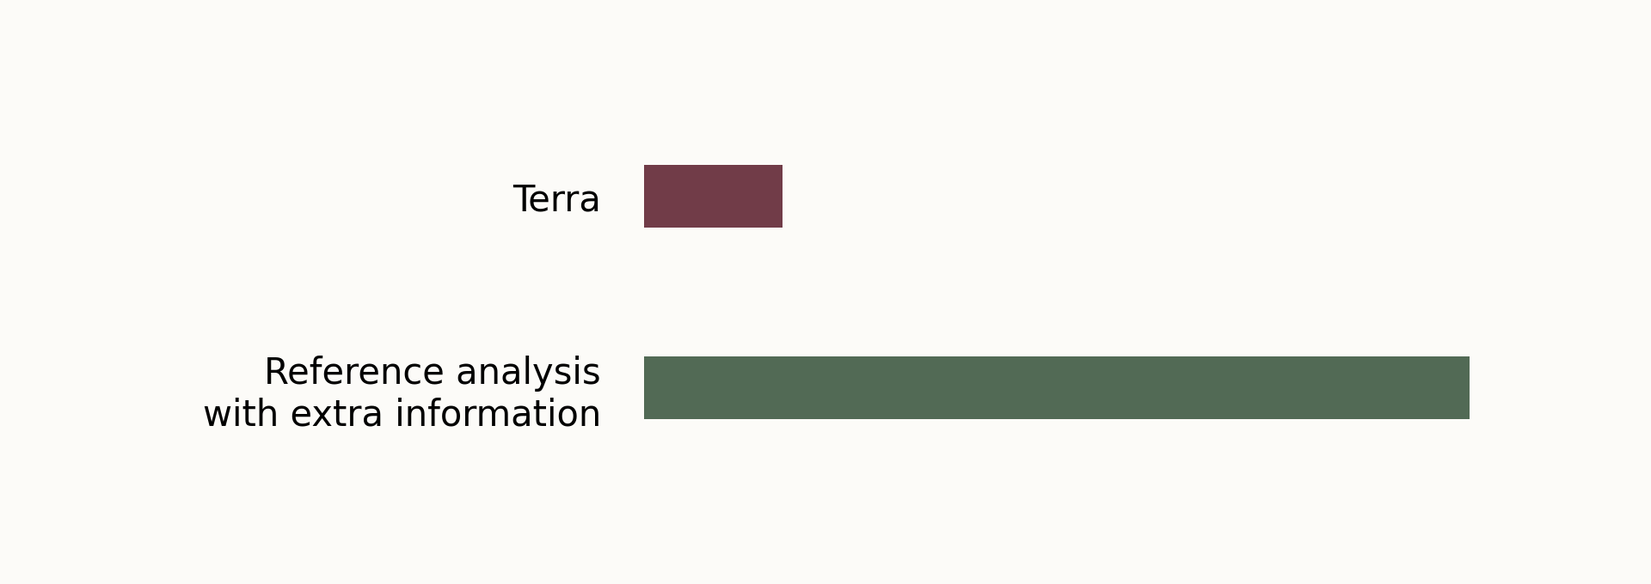
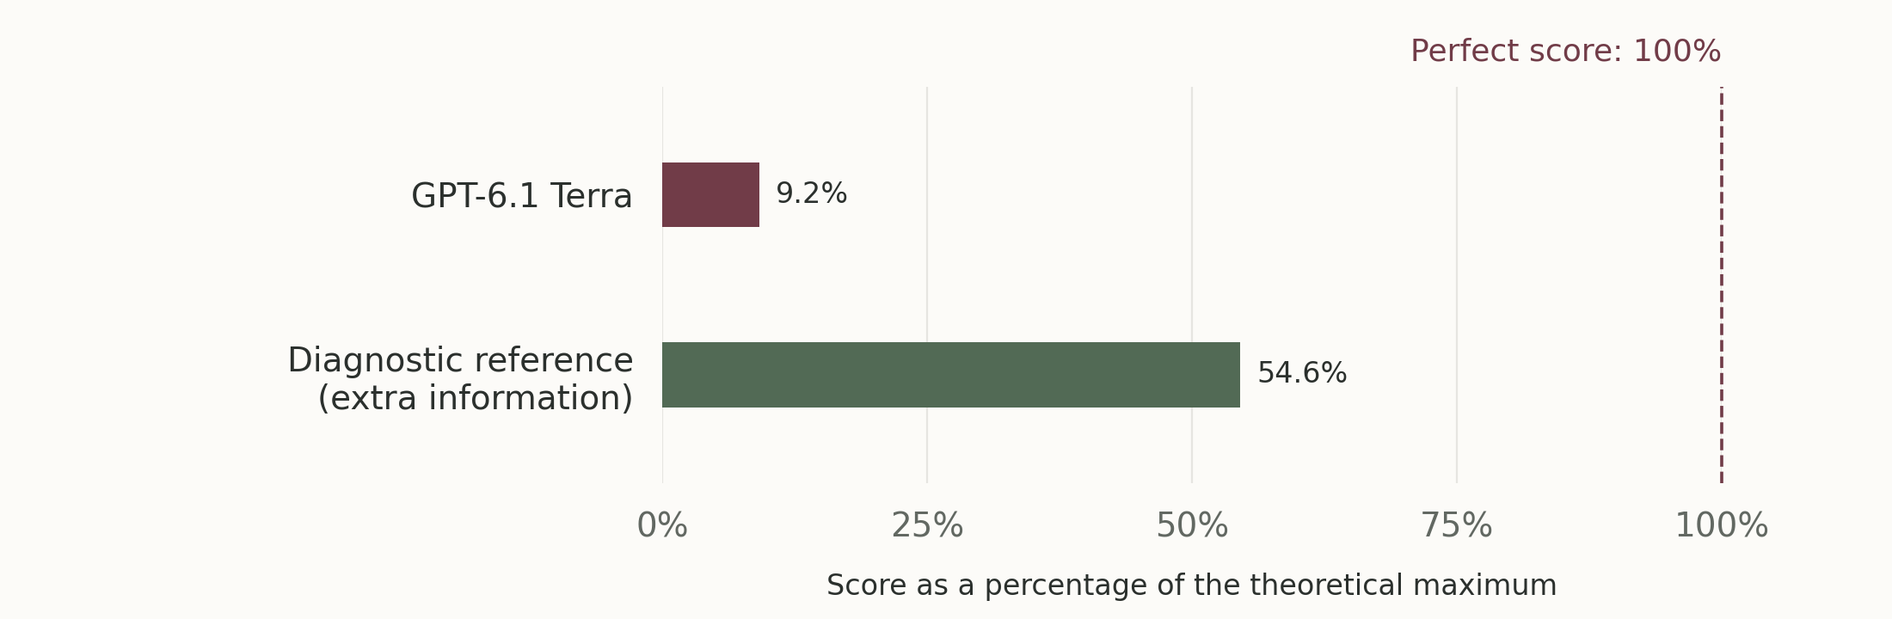
Show model identities, study coverage, and theoretical score ceiling in OpenQFT results

diff --git a/projects/openqft/index.html b/projects/openqft/index.html
@@ -1,4 +1,4 @@
 <!doctype html>
 <html lang="en"><head><meta charset="utf-8"><meta name="viewport" content="width=device-width,initial-scale=1"><meta name="description" content="Some thoughts on scientific discovery, useful experience, and what it means for an agent to keep learning."><title>OpenQFT — Shuhan Wang</title><link rel="canonical" href="https://shuhan-wang1.github.io/projects/openqft/"><meta property="og:title" content="OpenQFT — Shuhan Wang"><meta property="og:description" content="Some thoughts on scientific discovery, useful experience, and what it means for an agent to keep learning."><link rel="icon" href="../../assets/favicon.svg" type="image/svg+xml"><link rel="stylesheet" href="../../styles.css"><link rel="stylesheet" href="../../project.css"><script src="../../project-data.js" defer></script><script src="../../project.js" defer></script></head>
 <body data-project-id="qft" class="research-blog"><a class="skip-link" href="#project-main" id="skip">Skip to content</a><header class="site-header"><div class="header-inner"><a class="wordmark" href="../../" aria-label="Shuhan Wang, home">sw<span class="wordmark-dot">.</span></a><a class="text-link" id="back-home" href="../../#research">All projects</a><button id="project-language" class="language-button" aria-label="Switch to Chinese">中文</button></div></header>
-<main id="project-main" class="project-document container"><header class="project-hero"><p class="eyebrow" id="page-kicker">OPENQFT / RESEARCH JOURNAL</p><h1 id="page-title">Learning to discover. Learning from discovery.</h1><p id="page-summary">Some thoughts on scientific discovery, useful experience, and what it means for an agent to keep learning.</p><div class="project-resources"></div></header><div class="project-layout"><aside><nav class="project-toc" aria-label="On this page"><span id="toc-label">On this page</span><a href="#section-0">What should an agent learn from discovery?</a><a href="#section-1">An intuition from the history of science</a><a href="#section-2">Collecting evidence is only part of the work</a><a href="#section-3">When experience helps—and when it gets in the way</a><a href="#section-4">The question I want to keep asking</a><a href="#section-5">A research note, while the work develops</a></nav></aside><article class="project-article"><div id="project-sections"><section id="section-0" class="project-section"><h2>What should an agent learn from discovery?</h2><div class="section-prose"><p>I keep coming back to two questions. Can an agent work out something unfamiliar by choosing its own experiments? And when it encounters a new problem, does the earlier investigation make it a better learner?</p><p>OpenQFT grew out of wanting to study these questions together. A successful investigation is interesting in its own right. I am even more interested in what survives it: a useful idea, a better question, or a habit of checking an explanation before trusting it.</p></div></section><section id="section-1" class="project-section"><h2>An intuition from the history of science</h2><div class="section-prose"><p>One inspiration is the history of particle physics. Observations arrived before a complete explanation. Researchers had to look for regularities, ask what those regularities implied, and decide which observation might change the picture. An explanation earned its value by helping them anticipate something they had not yet seen.</p><p>What interests me is this movement between evidence and explanation. Each discovery changes the questions that become worth asking. Experience can do more than supply another answer; it can change how the next investigation begins.</p></div></section><section id="section-2" class="project-section"><h2>Collecting evidence is only part of the work</h2><div class="section-prose"><p>Choosing an experiment and making sense of its outcome are different abilities. An agent can collect observations while still missing a useful explanation. It can also settle on a plausible story too early and keep gathering evidence that fits it.</p><p>The Terra study motivates a closer look at this distinction. The comparison below places Terra alongside a diagnostic reference analysis. That reference also receives additional information, so the gap does not isolate a reasoning deficit. It is a prompt to ask which parts of an investigation need help, rather than a claim that every answer was already available to the agent.</p></div></section><figure class="blog-figure" data-blog-figure="0"><a class="figure-zoom" href="../../assets/openqft/terra-evidence.png" target="_blank" rel="noopener noreferrer"><img src="../../assets/openqft/terra-evidence.png" alt="Relative bars for Terra and a reference analysis with additional information. The reference bar is higher." width="1920" height="680" loading="lazy"></a><figcaption>Selected Terra result: interpreting observations. Bars show descriptive means on a relative scale. The reference analysis has additional information; this is a diagnostic comparison, not an equal-information baseline. Quantitative scales and experimental details are withheld in this public preview.</figcaption></figure><section id="section-3" class="project-section"><h2>When experience helps—and when it gets in the way</h2><div class="section-prose"><p>A later investigation need not begin from an empty page. In the selected Terra comparison below, accumulated experience is associated with better performance. That is encouraging: something from an earlier investigation can be useful again.</p><p>But useful memory needs judgement. A good explanation can guide a new experiment; an untested assumption can guide it in the wrong direction. I want to understand how an agent can carry forward what it has learnt while staying willing to revise it. The figure is a descriptive preview, not a claim that memory helps every investigation.</p></div></section><figure class="blog-figure" data-blog-figure="1"><a class="figure-zoom" href="../../assets/openqft/terra-experience.png" target="_blank" rel="noopener noreferrer"><img src="../../assets/openqft/terra-experience.png" alt="Relative bars for Terra without and with accumulated experience. The bar with experience is higher." width="1920" height="680" loading="lazy"></a><figcaption>Selected Terra result: carrying experience forward. Descriptive means from matched conditions, shown on a separate relative scale. The version with accumulated experience performs better in this comparison. This preview omits quantitative scales and experimental details; it does not establish a general memory benefit.</figcaption></figure><section id="section-4" class="project-section"><h2>The question I want to keep asking</h2><div class="section-prose"><p>For me, the exciting possibility is an agent whose experience improves the way it investigates. It notices when an explanation stops working, asks a more revealing question, and brings a useful idea to an unfamiliar problem.</p><p>That connects scientific discovery to continual learning: progress in one investigation becomes part of how the next one is approached. OpenQFT is where I am exploring that connection.</p></div></section><section id="section-5" class="project-section"><h2>A research note, while the work develops</h2><div class="section-prose"><p>This is an intuition-led preview of independent, unpublished research. The figures are simplified views of selected Terra results, each on its own relative scale. They are not intended for quantitative comparison across figures. The experimental setup and full paper will be shared when the work is ready.</p></div></section></div><p class="project-updated" id="updated">Updated November 2026</p></article></div><nav class="related-projects" aria-label="Other projects"><h2 id="related-title">Explore other projects</h2><a href="../diagnosing-world-models/" data-related="wm">Diagnosing World Models</a><a href="../climb/" data-related="climb">CLIMB</a><a href="../temporal-routing/" data-related="temporal">Temporal Routing</a><a href="../swe-router/" data-related="swe">SWE-Router</a><a href="../ropeband/" data-related="rope">RopeBand</a><a href="../rentcompass/" data-related="rent">RentCompass</a></nav></main><footer class="site-footer container"><a href="../../">Shuhan Wang / 王书涵</a><a href="mailto:jackwsh@outlook.com">jackwsh@outlook.com</a></footer></body></html>
+<main id="project-main" class="project-document container"><header class="project-hero"><p class="eyebrow" id="page-kicker">OPENQFT / RESEARCH JOURNAL</p><h1 id="page-title">Learning to discover. Learning from discovery.</h1><p id="page-summary">Some thoughts on scientific discovery, useful experience, and what it means for an agent to keep learning.</p><div class="project-resources"></div></header><div class="project-layout"><aside><nav class="project-toc" aria-label="On this page"><span id="toc-label">On this page</span><a href="#section-0">What should an agent learn from discovery?</a><a href="#section-1">An intuition from the history of science</a><a href="#section-2">A snapshot across models</a><a href="#section-3">Collecting evidence is only part of the work</a><a href="#section-4">When experience helps—and when it gets in the way</a><a href="#section-5">The question I want to keep asking</a><a href="#section-6">A research note, while the work develops</a></nav></aside><article class="project-article"><div id="project-sections"><section id="section-0" class="project-section"><h2>What should an agent learn from discovery?</h2><div class="section-prose"><p>I keep coming back to two questions. Can an agent work out something unfamiliar by choosing its own experiments? And when it encounters a new problem, does the earlier investigation make it a better learner?</p><p>OpenQFT grew out of wanting to study these questions together. A successful investigation is interesting in its own right. I am even more interested in what survives it: a useful idea, a better question, or a habit of checking an explanation before trusting it.</p></div></section><section id="section-1" class="project-section"><h2>An intuition from the history of science</h2><div class="section-prose"><p>One inspiration is the history of particle physics. Observations arrived before a complete explanation. Researchers had to look for regularities, ask what those regularities implied, and decide which observation might change the picture. An explanation earned its value by helping them anticipate something they had not yet seen.</p><p>What interests me is this movement between evidence and explanation. Each discovery changes the questions that become worth asking. Experience can do more than supply another answer; it can change how the next investigation begins.</p></div></section><section id="section-2" class="project-section"><h2>A snapshot across models</h2><div class="section-prose"><p>The initial-evaluation snapshot now includes GPT-6.1 Terra (gpt-6.1-terra), GPT-6 Luna (gpt-6-luna), GPT-6.2 Sol (gpt-6.2-sol), and Claude Opus 5.5 (claude-opus-5-5). All scores below are expressed as a percentage of the theoretical maximum: a perfect score is 100%.</p><p>Complete and Partial describe study coverage, not task success. The GPT-6.1 Terra and GPT-6 Luna main studies are complete. The GPT-6.2 Sol study is partial, and Claude Opus 5.5 currently has initial-evaluation results only. The initial batch is complete for all four models; the Partial label refers to the broader study.</p><p>The table separates initial evaluation from the experience comparison. They use different evaluation subsets, so a change between these columns should not be read as an improvement over time. Partial experience results include only completed matched comparisons; unfinished evaluations are omitted, not scored as zero. These are descriptive snapshots, rather than a definitive ranking.</p></div></section><div class="results-table-wrap" tabindex="0" role="region" aria-label="Model results"><table class="model-results"><caption>Results snapshot · theoretical maximum = 100%</caption><thead><tr><th scope="col">Model</th><th scope="col">Study coverage</th><th scope="col">Initial evaluation</th><th scope="col">Without experience</th><th scope="col">With experience</th></tr></thead><tbody><tr><th scope="row">GPT-6.1 Terra<code>gpt-6.1-terra</code></th><td data-study-status="complete">Complete</td><td>23.9%</td><td>30.4%</td><td>37.9%</td></tr><tr><th scope="row">GPT-6 Luna<code>gpt-6-luna</code></th><td data-study-status="complete">Complete</td><td>1.2%</td><td>0.5%</td><td>1.4%</td></tr><tr><th scope="row">GPT-6.2 Sol<code>gpt-6.2-sol</code></th><td data-study-status="partial">Partial</td><td>40.0%</td><td>39.5%</td><td>46.2%</td></tr><tr><th scope="row">Claude Opus 5.5<code>claude-opus-5-5</code></th><td data-study-status="partial">Partial</td><td>43.6%</td><td data-score-missing>Not available</td><td data-score-missing>Not available</td></tr></tbody></table></div><figure class="blog-figure" data-blog-figure="0"><a class="figure-zoom" href="../../assets/openqft/model-discovery.png" target="_blank" rel="noopener noreferrer"><img src="../../assets/openqft/model-discovery.png" alt="Initial evaluation: GPT-6.1 Terra 23.9%, GPT-6 Luna 1.2%, GPT-6.2 Sol 40.0%, Claude Opus 5.5 43.6%. The theoretical maximum is 100%. Sol and Opus are marked Partial for overall study coverage." width="2200" height="1000" loading="lazy"></a><figcaption>Initial-evaluation means, as a percentage of the theoretical maximum (100%). All four initial batches are complete. Complete/Partial denotes coverage of the broader study; partial studies use hatched bars. This snapshot does not establish a definitive model ranking.</figcaption></figure><section id="section-3" class="project-section"><h2>Collecting evidence is only part of the work</h2><div class="section-prose"><p>Choosing an experiment and making sense of its outcome are different abilities. An agent can collect observations while still missing a useful explanation. It can also settle on a plausible story too early and keep gathering evidence that fits it.</p><p>The GPT-6.1 Terra study motivates a closer look at this distinction. The comparison below places GPT-6.1 Terra alongside a diagnostic reference analysis. That reference also receives additional information, so the gap does not isolate a reasoning deficit. It is a prompt to ask which parts of an investigation need help, rather than a claim that every answer was already available to the agent.</p></div></section><figure class="blog-figure" data-blog-figure="1"><a class="figure-zoom" href="../../assets/openqft/terra-evidence.png" target="_blank" rel="noopener noreferrer"><img src="../../assets/openqft/terra-evidence.png" alt="GPT-6.1 Terra: 9.2%; diagnostic reference with extra information: 54.6%. The theoretical maximum for this diagnostic measure is 100%." width="2200" height="720" loading="lazy"></a><figcaption>GPT-6.1 Terra: selected diagnostic measure, with its theoretical maximum marked at 100%. The reference has additional information; this is not an equal-information baseline. This measure differs from the overall score in the other figures. Mechanism details remain private.</figcaption></figure><section id="section-4" class="project-section"><h2>When experience helps—and when it gets in the way</h2><div class="section-prose"><p>A later investigation need not begin from an empty page. In the selected GPT-6.1 Terra comparison below, accumulated experience is associated with better performance. That is encouraging: something from an earlier investigation can be useful again.</p><p>But useful memory needs judgement. A good explanation can guide a new experiment; an untested assumption can guide it in the wrong direction. I want to understand how an agent can carry forward what it has learnt while staying willing to revise it. The figure also includes the complete GPT-6 Luna study and available partial GPT-6.2 Sol results. Claude Opus 5.5 has no completed experience comparison to show yet. These descriptive means do not imply that memory helps every investigation.</p></div></section><figure class="blog-figure" data-blog-figure="2"><a class="figure-zoom" href="../../assets/openqft/model-experience.png" target="_blank" rel="noopener noreferrer"><img src="../../assets/openqft/model-experience.png" alt="Without/with accumulated experience: GPT-6.1 Terra 30.4%/37.9%, GPT-6 Luna 0.5%/1.4%, GPT-6.2 Sol 39.5%/46.2%. Perfect score is 100%. Sol is Partial. Opus has no available experience comparison." width="2200" height="1100" loading="lazy"></a><figcaption>Experience comparison: descriptive means from completed matched comparisons, with 100% marking the theoretical maximum. GPT-6.1 Terra and GPT-6 Luna are complete; GPT-6.2 Sol is partial and covers a different subset. No Claude Opus 5.5 experience result is available. Missing evaluations are not zeros. These means do not establish a universal memory benefit.</figcaption></figure><section id="section-5" class="project-section"><h2>The question I want to keep asking</h2><div class="section-prose"><p>For me, the exciting possibility is an agent whose experience improves the way it investigates. It notices when an explanation stops working, asks a more revealing question, and brings a useful idea to an unfamiliar problem.</p><p>That connects scientific discovery to continual learning: progress in one investigation becomes part of how the next one is approached. OpenQFT is where I am exploring that connection.</p></div></section><section id="section-6" class="project-section"><h2>A research note, while the work develops</h2><div class="section-prose"><p>This is an intuition-led preview of independent, unpublished research. Figures show selected descriptive means, with 100% marking the theoretical maximum for the measure in each figure. The diagnostic measure and the overall evaluation score are different measures. Study coverage is marked explicitly. Experimental mechanisms and the full paper remain private while the work develops.</p></div></section></div><p class="project-updated" id="updated">Updated November 2026</p></article></div><nav class="related-projects" aria-label="Other projects"><h2 id="related-title">Explore other projects</h2><a href="../diagnosing-world-models/" data-related="wm">Diagnosing World Models</a><a href="../climb/" data-related="climb">CLIMB</a><a href="../temporal-routing/" data-related="temporal">Temporal Routing</a><a href="../swe-router/" data-related="swe">SWE-Router</a><a href="../ropeband/" data-related="rope">RopeBand</a><a href="../rentcompass/" data-related="rent">RentCompass</a></nav></main><footer class="site-footer container"><a href="../../">Shuhan Wang / 王书涵</a><a href="mailto:jackwsh@outlook.com">jackwsh@outlook.com</a></footer></body></html>

diff --git a/project-data.js b/project-data.js
@@ -161,12 +161,16 @@ window.PROJECT_DATA = {
           "One inspiration is the history of particle physics. Observations arrived before a complete explanation. Researchers had to look for regularities, ask what those regularities implied, and decide which observation might change the picture. An explanation earned its value by helping them anticipate something they had not yet seen.\n\nWhat interests me is this movement between evidence and explanation. Each discovery changes the questions that become worth asking. Experience can do more than supply another answer; it can change how the next investigation begins."
         ],
         [
+          "A snapshot across models",
+          "The initial-evaluation snapshot now includes GPT-6.1 Terra (gpt-6.1-terra), GPT-6 Luna (gpt-6-luna), GPT-6.2 Sol (gpt-6.2-sol), and Claude Opus 5.5 (claude-opus-5-5). All scores below are expressed as a percentage of the theoretical maximum: a perfect score is 100%.\n\nComplete and Partial describe study coverage, not task success. The GPT-6.1 Terra and GPT-6 Luna main studies are complete. The GPT-6.2 Sol study is partial, and Claude Opus 5.5 currently has initial-evaluation results only. The initial batch is complete for all four models; the Partial label refers to the broader study.\n\nThe table separates initial evaluation from the experience comparison. They use different evaluation subsets, so a change between these columns should not be read as an improvement over time. Partial experience results include only completed matched comparisons; unfinished evaluations are omitted, not scored as zero. These are descriptive snapshots, rather than a definitive ranking."
+        ],
+        [
           "Collecting evidence is only part of the work",
-          "Choosing an experiment and making sense of its outcome are different abilities. An agent can collect observations while still missing a useful explanation. It can also settle on a plausible story too early and keep gathering evidence that fits it.\n\nThe Terra study motivates a closer look at this distinction. The comparison below places Terra alongside a diagnostic reference analysis. That reference also receives additional information, so the gap does not isolate a reasoning deficit. It is a prompt to ask which parts of an investigation need help, rather than a claim that every answer was already available to the agent."
+          "Choosing an experiment and making sense of its outcome are different abilities. An agent can collect observations while still missing a useful explanation. It can also settle on a plausible story too early and keep gathering evidence that fits it.\n\nThe GPT-6.1 Terra study motivates a closer look at this distinction. The comparison below places GPT-6.1 Terra alongside a diagnostic reference analysis. That reference also receives additional information, so the gap does not isolate a reasoning deficit. It is a prompt to ask which parts of an investigation need help, rather than a claim that every answer was already available to the agent."
         ],
         [
           "When experience helps—and when it gets in the way",
-          "A later investigation need not begin from an empty page. In the selected Terra comparison below, accumulated experience is associated with better performance. That is encouraging: something from an earlier investigation can be useful again.\n\nBut useful memory needs judgement. A good explanation can guide a new experiment; an untested assumption can guide it in the wrong direction. I want to understand how an agent can carry forward what it has learnt while staying willing to revise it. The figure is a descriptive preview, not a claim that memory helps every investigation."
+          "A later investigation need not begin from an empty page. In the selected GPT-6.1 Terra comparison below, accumulated experience is associated with better performance. That is encouraging: something from an earlier investigation can be useful again.\n\nBut useful memory needs judgement. A good explanation can guide a new experiment; an untested assumption can guide it in the wrong direction. I want to understand how an agent can carry forward what it has learnt while staying willing to revise it. The figure also includes the complete GPT-6 Luna study and available partial GPT-6.2 Sol results. Claude Opus 5.5 has no completed experience comparison to show yet. These descriptive means do not imply that memory helps every investigation."
         ],
         [
           "The question I want to keep asking",
@@ -174,7 +178,7 @@ window.PROJECT_DATA = {
         ],
         [
           "A research note, while the work develops",
-          "This is an intuition-led preview of independent, unpublished research. The figures are simplified views of selected Terra results, each on its own relative scale. They are not intended for quantitative comparison across figures. The experimental setup and full paper will be shared when the work is ready."
+          "This is an intuition-led preview of independent, unpublished research. Figures show selected descriptive means, with 100% marking the theoretical maximum for the measure in each figure. The diagnostic measure and the overall evaluation score are different measures. Study coverage is marked explicitly. Experimental mechanisms and the full paper remain private while the work develops."
         ]
       ]
     },
@@ -192,12 +196,16 @@ window.PROJECT_DATA = {
           "一个灵感来自粒子物理的发展史。观测往往先于完整的解释出现。研究者需要从中寻找规律，追问规律意味着什么，再决定什么样的新观测可能改变现有认识。一个解释的价值，体现在它能否帮助预见尚未观察到的东西。\n\n我感兴趣的是证据与解释之间的往返。每一次发现，都会改变接下来值得追问的问题。经验除了提供另一个答案，也可能改变下一次探索的起点。"
         ],
         [
+          "几种模型的结果快照",
+          "初始评测快照现在包括 GPT-6.1 Terra（gpt-6.1-terra）、GPT-6 Luna（gpt-6-luna）、GPT-6.2 Sol（gpt-6.2-sol）和 Claude Opus 5.5（claude-opus-5-5）。下方分数均按理论满分换算为百分比：满分为 100%。\n\nComplete 和 Partial 表示研究的完成状态，不表示任务成功率。GPT-6.1 Terra 和 GPT-6 Luna 的主线研究已完整；GPT-6.2 Sol 的研究仍是 partial，Claude Opus 5.5 目前只有初始评测结果。四个模型的初始批次均已完成；Partial 指的是更完整的研究尚未完成。\n\n表格将初始评测与经验对比分开。两者使用不同的评测子集，因此不能将跨列差值理解为随时间提升。Partial 的经验结果仅包含已完成的匹配比较；未完成评测暂不纳入，也不记为零分。这些是描述性的结果快照，不作为最终排名。"
+        ],
+        [
           "收集证据，只是工作的一部分",
-          "选择实验和理解结果，是两种不同的能力。智能体可能积累了许多观测，却仍然错过一个有用的解释；也可能过早相信一个看似合理的故事，此后只收集符合它的证据。\n\nTerra 的研究让我想进一步区分这些环节。下图将 Terra 与一个诊断性的参考分析进行对照。参考分析还获得了额外信息，因此差距不能单独归因于推理能力。它促使我追问探索中的哪些环节需要帮助，而不是断言答案早已完整地呈现在智能体面前。"
+          "选择实验和理解结果，是两种不同的能力。智能体可能积累了许多观测，却仍然错过一个有用的解释；也可能过早相信一个看似合理的故事，此后只收集符合它的证据。\n\nGPT-6.1 Terra 的研究让我想进一步区分这些环节。下图将 GPT-6.1 Terra 与一个诊断性的参考分析进行对照。参考分析还获得了额外信息，因此差距不能单独归因于推理能力。它促使我追问探索中的哪些环节需要帮助，而不是断言答案早已完整地呈现在智能体面前。"
         ],
         [
           "经验何时有用，又何时会妨碍探索？",
-          "后一次探索不必从空白开始。在下方选取的 Terra 对比中，积累经验时的表现更好。这是一个令人感兴趣的信号：之前的探索确实可能留下一些再次派得上用场的东西。\n\n但如何使用记忆，同样需要判断。好的解释可以指引下一次实验，未经检验的假设也可能把探索带偏。我想理解的是：智能体如何带着已有知识继续前进，同时保留修订它的意愿。这张图只是描述性的研究预览，并不意味着记忆会帮助每一次探索。"
+          "后一次探索不必从空白开始。在下方选取的 GPT-6.1 Terra 对比中，积累经验时的表现更好。这是一个令人感兴趣的信号：之前的探索确实可能留下一些再次派得上用场的东西。\n\n但如何使用记忆，同样需要判断。好的解释可以指引下一次实验，未经检验的假设也可能把探索带偏。我想理解的是：智能体如何带着已有知识继续前进，同时保留修订它的意愿。图中也加入了完整的 GPT-6 Luna 研究，以及 GPT-6.2 Sol 已完成的部分结果。Claude Opus 5.5 暂无已完成的经验对比。这些描述性均值并不意味着记忆会帮助每一次探索。"
         ],
         [
           "我想继续追问的问题",
@@ -205,7 +213,7 @@ window.PROJECT_DATA = {
         ],
         [
           "写在研究进行中",
-          "这是尚未发表的独立研究的一篇直觉笔记。配图是选取 Terra 结果制作的简化公开版本，每张图采用各自的相对尺度，不用于跨图定量比较。实验设计与完整论文将在研究准备好后公开。"
+          "这是尚未发表的独立研究的一篇直觉笔记。图中展示选取结果的描述性均值，100% 表示每张图中相应指标的理论满分。诊断指标与整体评测分数是不同指标。研究完成状态已分别标注。研究进行期间，具体实验机制与论文全文仍暂不公开。"
         ]
       ]
     },
@@ -234,7 +242,7 @@ window.PROJECT_DATA = {
         ],
         [
           "Research note",
-          "The full page shares the intuition behind OpenQFT and simplified views of selected Terra results."
+          "The full page shares the intuition behind OpenQFT and simplified views of selected model results, including GPT-6.1 Terra."
         ],
         [
           "Status",
@@ -248,7 +256,7 @@ window.PROJECT_DATA = {
         ],
         [
           "研究笔记",
-          "完整页面分享 OpenQFT 背后的直觉，以及选取 Terra 结果制作的简化公开图。"
+          "完整页面分享 OpenQFT 背后的直觉，以及选取模型结果（含 GPT-6.1 Terra）制作的简化公开图。"
         ],
         [
           "状态",
@@ -259,29 +267,118 @@ window.PROJECT_DATA = {
     "figures": [
       {
         "after": 2,
-        "src": "assets/openqft/terra-evidence.png",
+        "src": "assets/openqft/model-discovery.png",
+        "width": 2200,
+        "height": 1000,
         "en": {
-          "alt": "Relative bars for Terra and a reference analysis with additional information. The reference bar is higher.",
-          "caption": "Selected Terra result: interpreting observations. Bars show descriptive means on a relative scale. The reference analysis has additional information; this is a diagnostic comparison, not an equal-information baseline. Quantitative scales and experimental details are withheld in this public preview."
+          "alt": "Initial evaluation: GPT-6.1 Terra 23.9%, GPT-6 Luna 1.2%, GPT-6.2 Sol 40.0%, Claude Opus 5.5 43.6%. The theoretical maximum is 100%. Sol and Opus are marked Partial for overall study coverage.",
+          "caption": "Initial-evaluation means, as a percentage of the theoretical maximum (100%). All four initial batches are complete. Complete/Partial denotes coverage of the broader study; partial studies use hatched bars. This snapshot does not establish a definitive model ranking."
         },
         "zh": {
-          "alt": "Terra 与获得额外信息的参考分析的相对柱状图，参考分析的柱更高。",
-          "caption": "选取的 Terra 结果：理解观测。柱形以相对尺度展示描述性均值。参考分析具有额外信息；这是诊断性对照，并非信息条件相同的基线比较。此公开预览省略定量尺度与实验细节。"
+          "alt": "初始评测：GPT-6.1 Terra 23.9%、GPT-6 Luna 1.2%、GPT-6.2 Sol 40.0%、Claude Opus 5.5 43.6%，理论满分为 100%。Sol 和 Opus 的整体研究标注为 Partial。",
+          "caption": "初始评测均值，按理论满分（100%）换算。四个初始批次均已完成。Complete/Partial 表示整体研究覆盖情况，部分研究采用斜线柱形。此快照不构成最终模型排名。"
         }
       },
       {
         "after": 3,
-        "src": "assets/openqft/terra-experience.png",
+        "src": "assets/openqft/terra-evidence.png",
+        "width": 2200,
+        "height": 720,
         "en": {
-          "alt": "Relative bars for Terra without and with accumulated experience. The bar with experience is higher.",
-          "caption": "Selected Terra result: carrying experience forward. Descriptive means from matched conditions, shown on a separate relative scale. The version with accumulated experience performs better in this comparison. This preview omits quantitative scales and experimental details; it does not establish a general memory benefit."
+          "alt": "GPT-6.1 Terra: 9.2%; diagnostic reference with extra information: 54.6%. The theoretical maximum for this diagnostic measure is 100%.",
+          "caption": "GPT-6.1 Terra: selected diagnostic measure, with its theoretical maximum marked at 100%. The reference has additional information; this is not an equal-information baseline. This measure differs from the overall score in the other figures. Mechanism details remain private."
         },
         "zh": {
-          "alt": "Terra 未积累与积累经验时的相对柱状图，积累经验时的柱更高。",
-          "caption": "选取的 Terra 结果：让经验延续。对匹配条件下的描述性均值，使用本图独立的相对尺度展示。积累经验的版本在这组对比中表现更好。预览省略定量尺度和实验细节，不代表记忆具有普遍收益。"
+          "alt": "GPT-6.1 Terra：9.2%；具有额外信息的诊断参照：54.6%。此诊断指标的理论满分为 100%。",
+          "caption": "GPT-6.1 Terra 的选取诊断指标，理论满分标为 100%。参照具有额外信息，并非信息条件相同的基线。此指标与其他图中的整体分数不同；具体机制暂不公开。"
+        }
+      },
+      {
+        "after": 4,
+        "src": "assets/openqft/model-experience.png",
+        "width": 2200,
+        "height": 1100,
+        "en": {
+          "alt": "Without/with accumulated experience: GPT-6.1 Terra 30.4%/37.9%, GPT-6 Luna 0.5%/1.4%, GPT-6.2 Sol 39.5%/46.2%. Perfect score is 100%. Sol is Partial. Opus has no available experience comparison.",
+          "caption": "Experience comparison: descriptive means from completed matched comparisons, with 100% marking the theoretical maximum. GPT-6.1 Terra and GPT-6 Luna are complete; GPT-6.2 Sol is partial and covers a different subset. No Claude Opus 5.5 experience result is available. Missing evaluations are not zeros. These means do not establish a universal memory benefit."
+        },
+        "zh": {
+          "alt": "未积累/积累经验：GPT-6.1 Terra 30.4%/37.9%、GPT-6 Luna 0.5%/1.4%、GPT-6.2 Sol 39.5%/46.2%。满分为 100%；Sol 为 Partial，Opus 暂无经验对比。",
+          "caption": "经验对比：已完成匹配比较的描述性均值，100% 为理论满分。GPT-6.1 Terra 与 GPT-6 Luna 已完整；GPT-6.2 Sol 为部分结果，覆盖不同子集。Claude Opus 5.5 暂无经验对比结果。缺失评测不记为零；这些均值不代表记忆具有普遍收益。"
         }
       }
-    ]
+    ],
+    "resultsTable": {
+      "after": 2,
+      "en": {
+        "headers": [
+          "Model",
+          "Study coverage",
+          "Initial evaluation",
+          "Without experience",
+          "With experience"
+        ],
+        "caption": "Results snapshot · theoretical maximum = 100%",
+        "missing": "Not available",
+        "complete": "Complete",
+        "partial": "Partial"
+      },
+      "zh": {
+        "headers": [
+          "模型",
+          "研究状态",
+          "初始评测",
+          "未积累经验",
+          "积累经验"
+        ],
+        "caption": "结果快照 · 理论满分 = 100%",
+        "missing": "暂无结果",
+        "complete": "完整",
+        "partial": "部分结果"
+      },
+      "rows": [
+        {
+          "model": "GPT-6.1 Terra",
+          "identifier": "gpt-6.1-terra",
+          "status": "Complete",
+          "scores": [
+            23.9,
+            30.4,
+            37.9
+          ]
+        },
+        {
+          "model": "GPT-6 Luna",
+          "identifier": "gpt-6-luna",
+          "status": "Complete",
+          "scores": [
+            1.2,
+            0.5,
+            1.4
+          ]
+        },
+        {
+          "model": "GPT-6.2 Sol",
+          "identifier": "gpt-6.2-sol",
+          "status": "Partial",
+          "scores": [
+            40.0,
+            39.5,
+            46.2
+          ]
+        },
+        {
+          "model": "Claude Opus 5.5",
+          "identifier": "claude-opus-5-5",
+          "status": "Partial",
+          "scores": [
+            43.6,
+            null,
+            null
+          ]
+        }
+      ]
+    }
   },
   "temporal": {
     "en": {

diff --git a/project.css b/project.css
@@ -4,3 +4,5 @@
 .section-prose p+p{margin-top:20px}.research-blog .project-hero{max-width:1000px}.research-blog .project-hero h1{max-width:900px;font-size:clamp(42px,5.5vw,72px);line-height:1.12}.research-blog .project-hero>p:not(.eyebrow){max-width:700px}.research-blog .project-layout{grid-template-columns:200px minmax(0,1fr);gap:55px}.research-blog .project-section:first-child{margin-top:0}.research-blog .project-section h2{font-size:34px}.research-blog .section-prose p{font-size:18px;line-height:1.9}.blog-figure{margin-top:32px;padding:18px 20px 22px;background:var(--surface);border:1px solid var(--line);border-radius:4px}.blog-figure img{display:block;width:100%;height:auto}.research-blog .blog-figure figcaption{font-size:14px;line-height:1.75}.research-blog .project-updated{margin-top:36px}@media(max-width:800px){.research-blog .project-layout{grid-template-columns:1fr;gap:32px}.research-blog .section-prose p{font-size:17px}.blog-figure{padding:10px 10px 18px}}
 
 .figure-zoom{display:block;cursor:zoom-in}.figure-zoom:focus-visible{outline:2px solid var(--accent)}
+
+.results-table-wrap{overflow-x:auto;margin:28px 0 32px}.model-results{width:100%;border-collapse:collapse;font-size:14px;line-height:1.6;min-width:640px}.model-results caption{text-align:left;font-weight:500;font-size:16px;margin-bottom:16px}.model-results th,.model-results td{text-align:left;vertical-align:top;border-bottom:1px solid var(--line);padding:12px 10px}.model-results thead th{font-weight:500;color:var(--muted)}.model-results tbody th{font-weight:500}.model-results code{display:block;font-size:12px;color:var(--muted);font-weight:400;white-space:nowrap;margin-top:4px}.model-results [data-study-status="partial"]{color:var(--accent)}

diff --git a/project.js b/project.js
@@ -31,6 +31,14 @@
       }));
       document.querySelector(`.project-toc a[href="#section-${i}"]`).textContent = heading;
     });
+    if (project.resultsTable) {
+      const labels = project.resultsTable[language];
+      document.querySelector('.model-results caption').textContent = labels.caption;
+      document.querySelectorAll('.model-results thead th').forEach((th,i) => { th.textContent = labels.headers[i]; });
+      document.querySelectorAll('[data-study-status]').forEach(td => { td.textContent = labels[td.dataset.studyStatus]; });
+      document.querySelectorAll('[data-score-missing]').forEach(td => { td.textContent = labels.missing; });
+      document.querySelector('.results-table-wrap').setAttribute('aria-label', zh ? '模型结果' : 'Model results');
+    }
     document.querySelectorAll('[data-blog-figure]').forEach(figure => {
       const item = project.figures[Number(figure.dataset.blogFigure)][language];
       figure.querySelector('img').alt = item.alt;

diff --git a/tools/build-projects.py b/tools/build-projects.py
@@ -11,9 +11,17 @@ for key,p in data.items():
  for i,(heading,text) in enumerate(en['sections']):
   paragraphs=''.join(f'<p>{e(part)}</p>' for part in text.split('\n\n'))
   sections+=f'<section id="section-{i}" class="project-section"><h2>{e(heading)}</h2><div class="section-prose">{paragraphs}</div></section>'
+  table=p.get('resultsTable')
+  if table and table['after']==i:
+   th=''.join(f'<th scope="col">{e(h)}</th>' for h in table['en']['headers'])
+   rows=''
+   for ri,row in enumerate(table['rows']):
+    cells=''.join(f'<td>{score:.1f}%</td>' if score is not None else f'<td data-score-missing>{e(table["en"]["missing"])}</td>' for score in row['scores'])
+    rows+=f'<tr><th scope="row">{e(row["model"])}<code>{e(row["identifier"])}</code></th><td data-study-status="{row["status"].lower()}">{e(row["status"])}</td>{cells}</tr>'
+   sections+=f'<div class="results-table-wrap" tabindex="0" role="region" aria-label="Model results"><table class="model-results"><caption>{e(table["en"]["caption"])}</caption><thead><tr>{th}</tr></thead><tbody>{rows}</tbody></table></div>'
   for fi,fig in enumerate(p.get('figures',[])):
    if fig['after']==i:
-    sections+=f'<figure class="blog-figure" data-blog-figure="{fi}"><a class="figure-zoom" href="../../{e(fig["src"])}" target="_blank" rel="noopener noreferrer"><img src="../../{e(fig["src"])}" alt="{e(fig["en"]["alt"])}" width="1920" height="680" loading="lazy"></a><figcaption>{e(fig["en"]["caption"])}</figcaption></figure>'
+    sections+=f'<figure class="blog-figure" data-blog-figure="{fi}"><a class="figure-zoom" href="../../{e(fig["src"])}" target="_blank" rel="noopener noreferrer"><img src="../../{e(fig["src"])}" alt="{e(fig["en"]["alt"])}" width="{fig.get("width",1920)}" height="{fig.get("height",680)}" loading="lazy"></a><figcaption>{e(fig["en"]["caption"])}</figcaption></figure>'
  resources=''.join(f'<a class="button button-primary" href="{e(url)}" target="_blank" rel="noopener noreferrer">{e(label)}</a>' for label,_,url in p['links'])
  toc=''.join(f'<a href="#section-{i}">{e(h)}</a>' for i,(h,_) in enumerate(en['sections']))
  flow=''.join(f'<li>{e(s)}</li>' for s in p['flow'][0])
